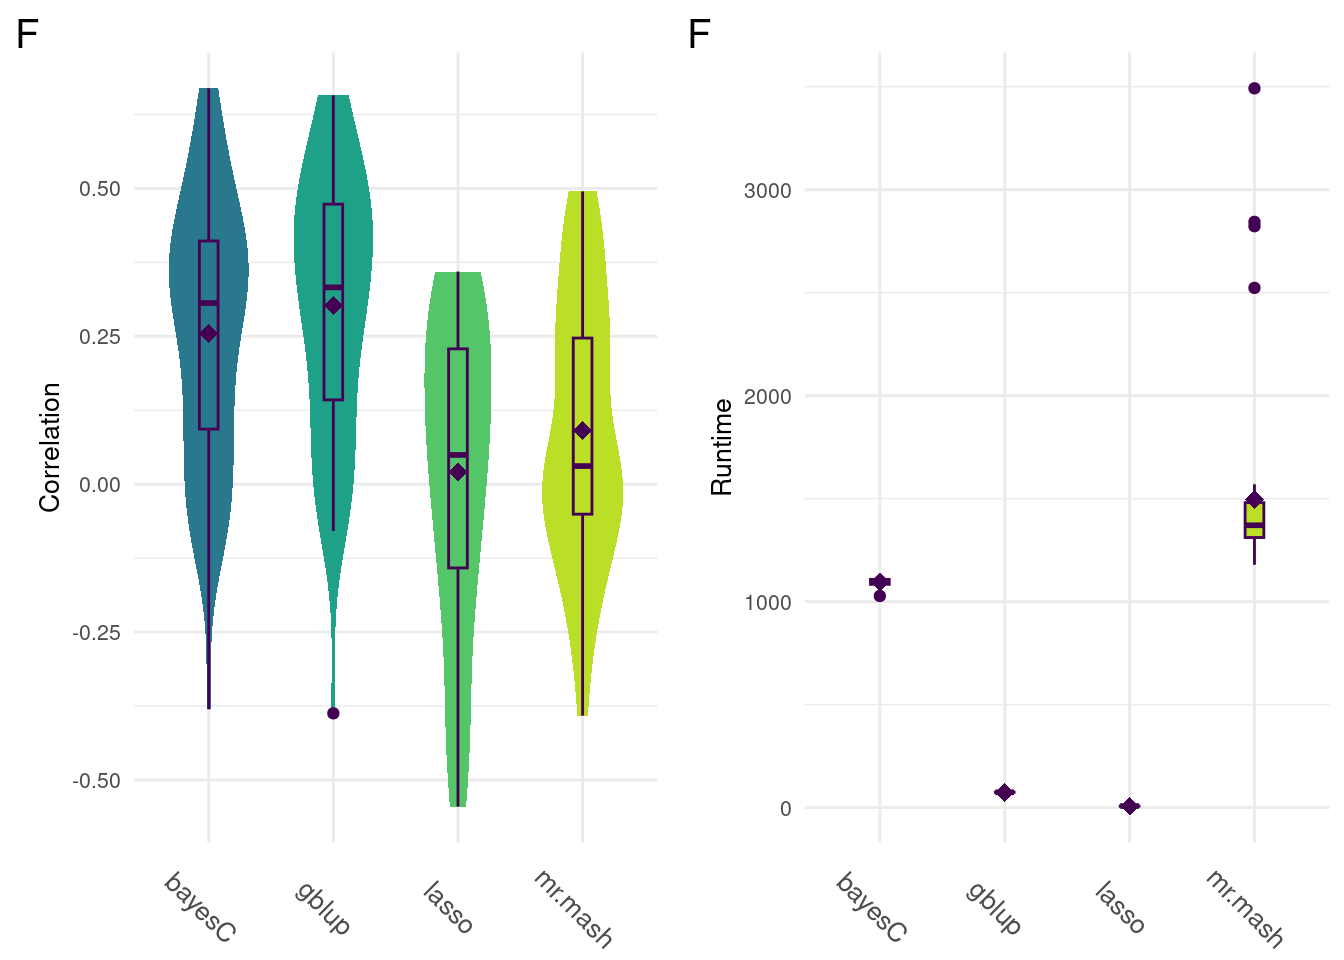
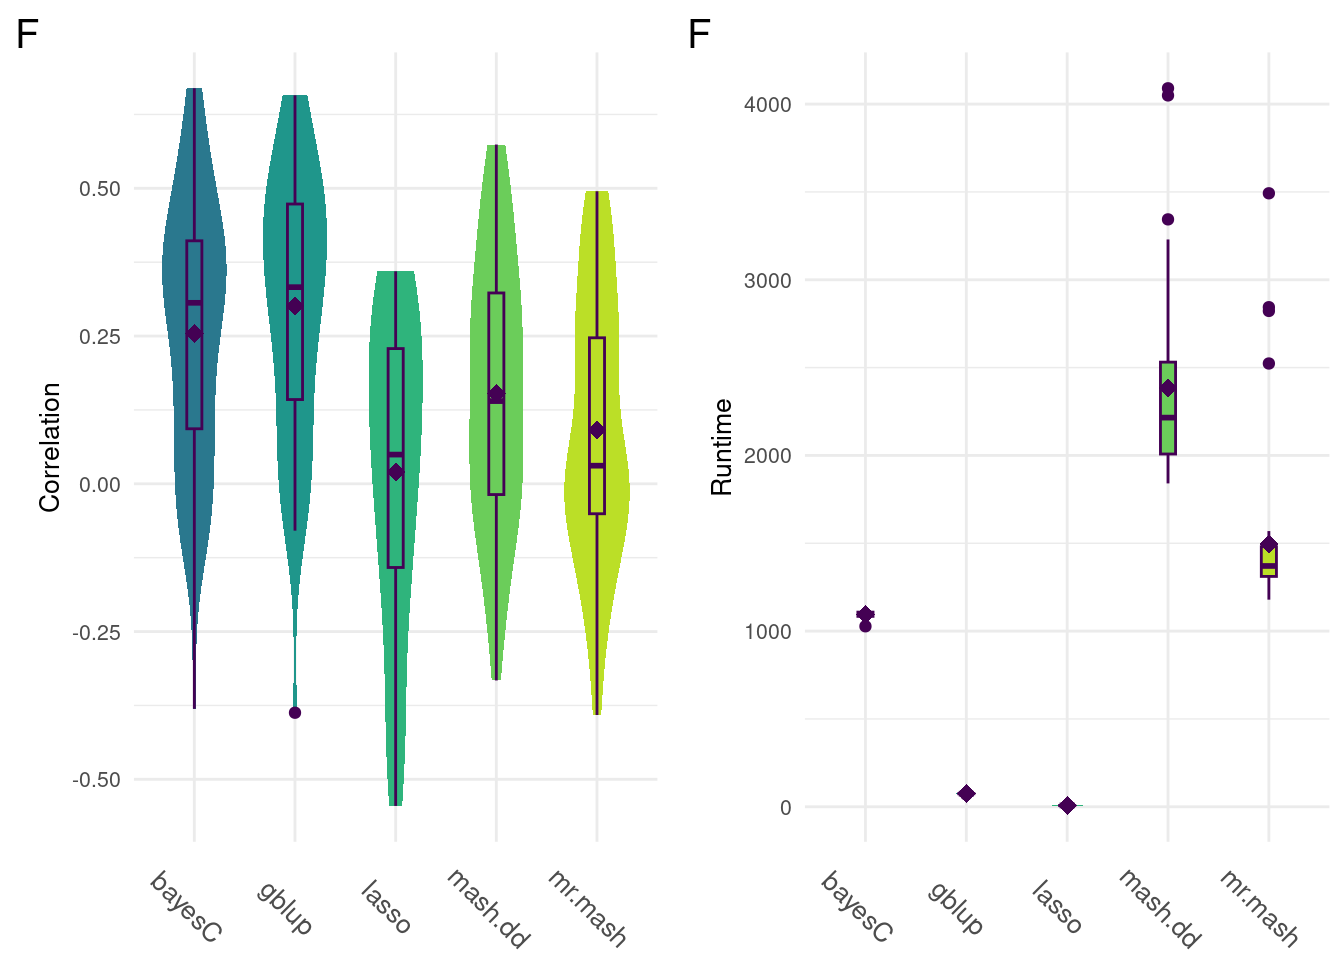
Build site.

diff --git a/docs/top3.html b/docs/top3.html
@@ -509,16 +509,16 @@ relative
 <div class="panel panel-default">
 <div class="panel-heading">
 <p class="panel-title">
-<a data-toggle="collapse" data-parent="#workflowr-checks" href="#strongRepositoryversionstrongahrefhttpsgithubcomnklimkodgrpstarvetreeec881a69ce8477acf25c5cc2a3379be3b949b9d0targetblankec881a6a"> <span class="glyphicon glyphicon-ok text-success" aria-hidden="true"></span> <strong>Repository version:</strong> <a href="https://github.com/nklimko/dgrp-starve/tree/ec881a69ce8477acf25c5cc2a3379be3b949b9d0" target="_blank">ec881a6</a> </a>
+<a data-toggle="collapse" data-parent="#workflowr-checks" href="#strongRepositoryversionstrongahrefhttpsgithubcomnklimkodgrpstarvetree2b7b5996ad3f1bb28abe930a2d84cce158c2fd6dtargetblank2b7b599a"> <span class="glyphicon glyphicon-ok text-success" aria-hidden="true"></span> <strong>Repository version:</strong> <a href="https://github.com/nklimko/dgrp-starve/tree/2b7b5996ad3f1bb28abe930a2d84cce158c2fd6d" target="_blank">2b7b599</a> </a>
 </p>
 </div>
[2 lines of base64/hex data omitted]
 <div class="panel-body">
 <p>
 Great! You are using Git for version control. Tracking code development and connecting the code version to the results is critical for reproducibility.
 </p>
 <p>
-The results in this page were generated with repository version <a href="https://github.com/nklimko/dgrp-starve/tree/ec881a69ce8477acf25c5cc2a3379be3b949b9d0" target="_blank">ec881a6</a>. See the <em>Past versions</em> tab to see a history of the changes made to the R Markdown and HTML files.
+The results in this page were generated with repository version <a href="https://github.com/nklimko/dgrp-starve/tree/2b7b5996ad3f1bb28abe930a2d84cce158c2fd6d" target="_blank">2b7b599</a>. See the <em>Past versions</em> tab to see a history of the changes made to the R Markdown and HTML files.
 </p>
 <p>
 Note that you need to be careful to ensure that all relevant files for the analysis have been committed to Git prior to generating the results (you can use <code>wflow_publish</code> or <code>wflow_git_commit</code>). workflowr only checks the R Markdown file, but you know if there are other scripts or data files that it depends on. Below is the status of the Git repository when the results were generated:
@@ -534,7 +534,6 @@ Untracked files:
     Untracked:  .snakemake/
     Untracked:  Rplot.pdf
     Untracked:  analysis/linearReg.Rmd
-    Untracked:  analysis/temp-covCor.Rmd
     Untracked:  bglr-f.R
     Untracked:  code/PCA/
     Untracked:  code/data-prep/
@@ -595,7 +594,6 @@ Unstaged changes:
     Modified:   _workflowr.yml
     Modified:   analysis/_site.yml
     Modified:   analysis/about.Rmd
-    Deleted:    analysis/covCor.Rmd
     Deleted:    analysis/gremlo.R
     Modified:   analysis/license.Rmd
     Modified:   analysis/linReg.Rmd
@@ -689,6 +687,40 @@ Message
 Rmd
 </td>
 <td>
+<a href="https://github.com/nklimko/dgrp-starve/blob/2b7b5996ad3f1bb28abe930a2d84cce158c2fd6d/analysis/top3.Rmd" target="_blank">2b7b599</a>
+</td>
+<td>
+nklimko
+</td>
+<td>
+2023-07-11
+</td>
+<td>
+added mash.dd
+</td>
+</tr>
+<tr>
+<td>
+html
+</td>
+<td>
+<a href="https://rawcdn.githack.com/nklimko/dgrp-starve/24ac0715a59ad5f3d5aa207847d2bccf7fb0424b/docs/top3.html" target="_blank">24ac071</a>
+</td>
+<td>
+nklimko
+</td>
+<td>
+2023-07-11
+</td>
+<td>
+Build site.
+</td>
+</tr>
+<tr>
+<td>
+Rmd
+</td>
+<td>
 <a href="https://github.com/nklimko/dgrp-starve/blob/ec881a69ce8477acf25c5cc2a3379be3b949b9d0/analysis/top3.Rmd" target="_blank">ec881a6</a>
 </td>
 <td>
@@ -752,8 +784,9 @@ wflow_publish(“analysis/top3.Rmd”)
 bayesC &lt;- readRDS(&#39;snake/data/30_summary/multibayesC_f_top3.Rds&#39;)
 blup &lt;- readRDS(&#39;snake/data/30_summary/multigblup_f_top3.Rds&#39;)
 lasso &lt;- readRDS(&#39;snake/data/30_summary/mlasso_f_top3.Rds&#39;)
+datamash &lt;- readRDS(&#39;snake/data/30_summary/datamash_f_top3.Rds&#39;)
 
-allData &lt;- list(mash, bayesC, blup, lasso)
+allData &lt;- list(mash, bayesC, blup, lasso, datamash)
 
 #correlations----
 hold &lt;- 0
@@ -777,7 +810,7 @@ timeData &lt;- hold[,-1]
 
 #graphing----
 iter &lt;- 50
-label &lt;- c(rep(&quot;mr.mash&quot;, iter), rep(&quot;bayesC&quot;, iter), rep(&quot;gblup&quot;, iter), rep(&quot;lasso&quot;, iter))
+label &lt;- c(rep(&quot;mr.mash&quot;, iter), rep(&quot;bayesC&quot;, iter), rep(&quot;gblup&quot;, iter), rep(&quot;lasso&quot;, iter), rep(&quot;mash.dd&quot;, iter))
 data &lt;- data.table(cor=as.numeric(unlist(corData)), method=label)
 
 gg[[1]] &lt;- ggplot(data, aes(x=method, y=cor, fill=method)) +
@@ -811,8 +844,9 @@ gg[[2]] &lt;- ggplot(data, aes(x=method, y=cor, fill=method)) +
 bayesC &lt;- readRDS(&#39;snake/data/30_summary/multibayesC_m_top3.Rds&#39;)
 blup &lt;- readRDS(&#39;snake/data/30_summary/multigblup_m_top3.Rds&#39;)
 lasso &lt;- readRDS(&#39;snake/data/30_summary/mlasso_m_top3.Rds&#39;)
+datamash &lt;- readRDS(&#39;snake/data/30_summary/datamash_m_top3.Rds&#39;)
 
-allData &lt;- list(mash, bayesC, blup, lasso)
+allData &lt;- list(mash, bayesC, blup, lasso, datamash)
 
 #correlations----
 hold &lt;- 0
@@ -835,8 +869,6 @@ for(i in allData){
 timeData &lt;- hold[,-1]
 
 #graphing----
-iter &lt;- 50
-label &lt;- c(rep(&quot;mr.mash&quot;, iter), rep(&quot;bayesC&quot;, iter), rep(&quot;gblup&quot;, iter), rep(&quot;lasso&quot;, iter))
 data &lt;- data.table(cor=as.numeric(unlist(corData)), method=label)
 
 gg[[3]] &lt;- ggplot(data, aes(x=method, y=cor, fill=method)) +
@@ -870,11 +902,85 @@ gg[[4]] &lt;- ggplot(data, aes(x=method, y=cor, fill=method)) +
 <h3>Female Correlation + Runtime</h3>
 <pre class="r"><code>plot_grid(gg[[1]],gg[[2]], ncol=2)</code></pre>
 <p><img src="figure/top3.Rmd/plot-print-f-1.png" width="672" style="display: block; margin: auto;" /></p>
+<p>
+<button type="button" class="btn btn-default btn-xs btn-workflowr btn-workflowr-fig" data-toggle="collapse" data-target="#fig-plot-print-f-1">
+Past versions of plot-print-f-1.png
+</button>
+</p>
+<div id="fig-plot-print-f-1" class="collapse">
+<div class="table-responsive">
+<table class="table table-condensed table-hover">
+<thead>
+<tr>
+<th>
+Version
+</th>
+<th>
+Author
+</th>
+<th>
+Date
+</th>
+</tr>
+</thead>
+<tbody>
+<tr>
+<td>
+<a href="https://github.com/nklimko/dgrp-starve/blob/24ac0715a59ad5f3d5aa207847d2bccf7fb0424b/docs/figure/top3.Rmd/plot-print-f-1.png" target="_blank">24ac071</a>
+</td>
+<td>
+nklimko
+</td>
+<td>
+2023-07-11
+</td>
+</tr>
+</tbody>
+</table>
+</div>
+</div>
 </div>
 <div id="male-correlation-runtime" class="section level3">
 <h3>Male Correlation + Runtime</h3>
 <pre class="r"><code>plot_grid(gg[[3]],gg[[4]], ncol=2)</code></pre>
 <p><img src="figure/top3.Rmd/plot-print-m-1.png" width="672" style="display: block; margin: auto;" /></p>
+<p>
+<button type="button" class="btn btn-default btn-xs btn-workflowr btn-workflowr-fig" data-toggle="collapse" data-target="#fig-plot-print-m-1">
+Past versions of plot-print-m-1.png
+</button>
+</p>
+<div id="fig-plot-print-m-1" class="collapse">
+<div class="table-responsive">
+<table class="table table-condensed table-hover">
+<thead>
+<tr>
+<th>
+Version
+</th>
+<th>
+Author
+</th>
+<th>
+Date
+</th>
+</tr>
+</thead>
+<tbody>
+<tr>
+<td>
+<a href="https://github.com/nklimko/dgrp-starve/blob/24ac0715a59ad5f3d5aa207847d2bccf7fb0424b/docs/figure/top3.Rmd/plot-print-m-1.png" target="_blank">24ac071</a>
+</td>
+<td>
+nklimko
+</td>
+<td>
+2023-07-11
+</td>
+</tr>
+</tbody>
+</table>
+</div>
+</div>
 <br>
 <p>
 <button type="button" class="btn btn-default btn-workflowr btn-workflowr-sessioninfo" data-toggle="collapse" data-target="#workflowr-sessioninfo" style="display: block;">
@@ -902,11 +1008,11 @@ attached base packages:
 [1] stats     graphics  grDevices utils     datasets  methods   base     
 
 other attached packages:
- [1] lubridate_1.9.2   forcats_1.0.0     stringr_1.5.0     purrr_1.0.1      
- [5] readr_2.1.4       tidyr_1.3.0       tibble_3.2.1      tidyverse_2.0.0  
- [9] scales_1.2.1      viridis_0.6.2     viridisLite_0.4.2 qqman_0.1.8      
-[13] cowplot_1.1.1     ggplot2_3.4.2     data.table_1.14.8 dplyr_1.1.2      
-[17] workflowr_1.7.0  
+ [1] ggcorrplot_0.1.4  lubridate_1.9.2   forcats_1.0.0     stringr_1.5.0    
+ [5] purrr_1.0.1       readr_2.1.4       tidyr_1.3.0       tibble_3.2.1     
+ [9] tidyverse_2.0.0   scales_1.2.1      viridis_0.6.2     viridisLite_0.4.2
+[13] qqman_0.1.8       cowplot_1.1.1     ggplot2_3.4.2     data.table_1.14.8
+[17] dplyr_1.1.2       workflowr_1.7.0  
 
 loaded via a namespace (and not attached):
  [1] Rcpp_1.0.10      getPass_0.2-2    ps_1.7.2         rprojroot_2.0.3 
